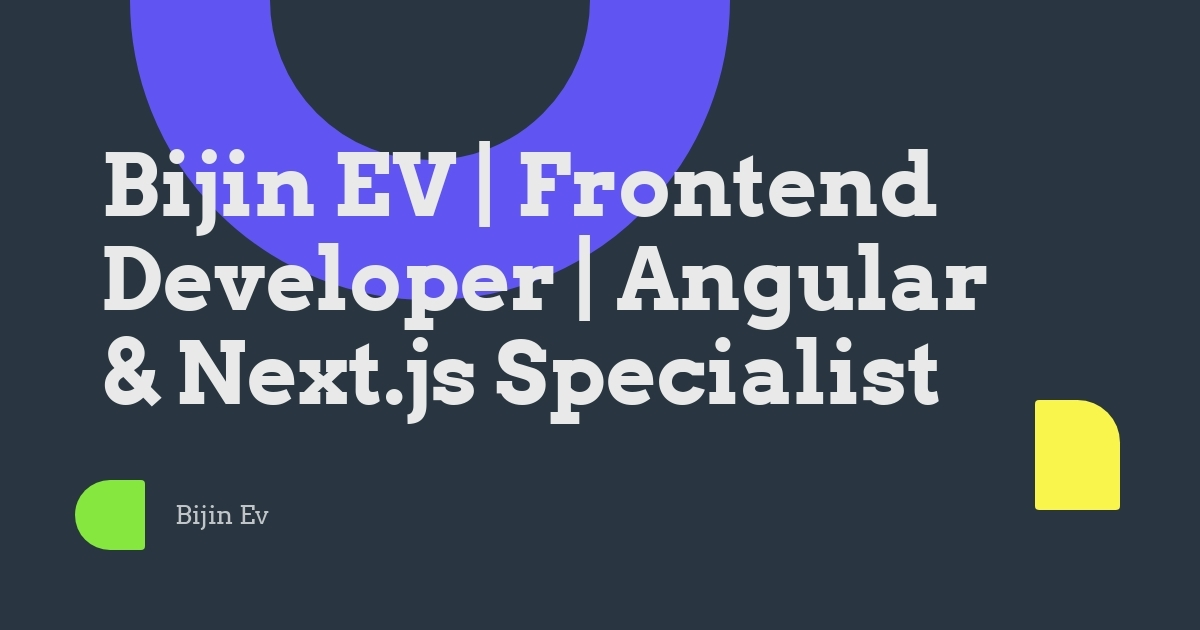
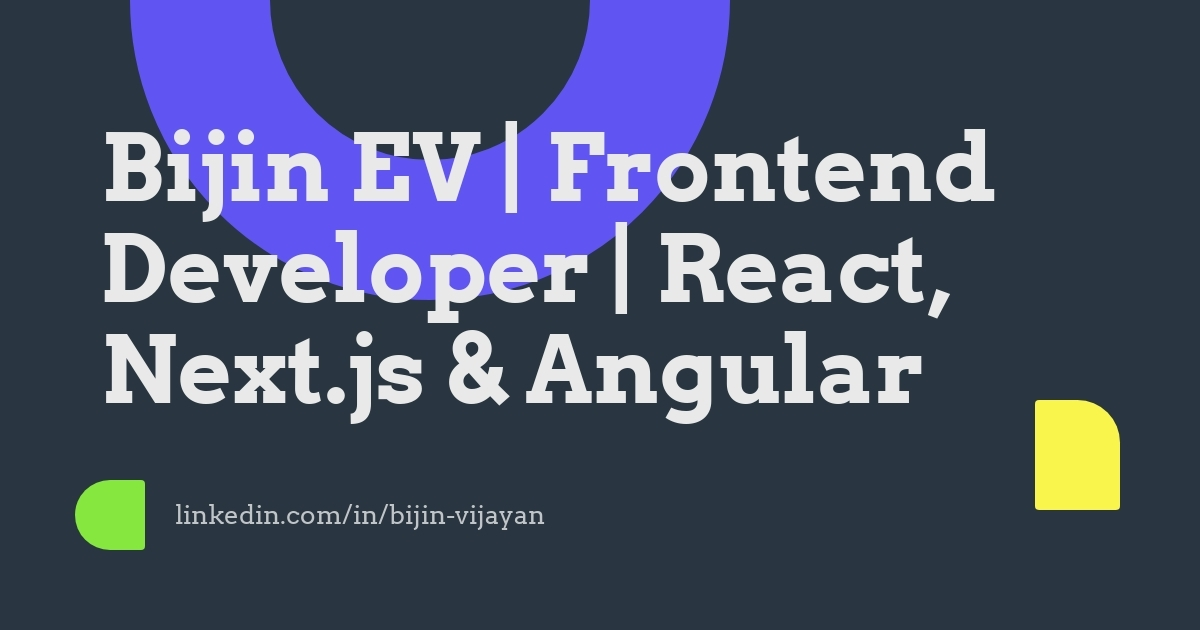
o grapgh image chnage

Changed region(s): [[0.0617, 0.181, 0.8325, 0.6937], [0.1542, 0.7841, 0.4625, 0.8444]]

diff --git a/index.html b/index.html
@@ -3,26 +3,26 @@
   <head>
     <meta charset="UTF-8" />
     <meta name="viewport" content="width=device-width, initial-scale=1.0" />
-    <title>Bijin EV | Frontend Developer | Angular & Next.js </title>
+    <title>Bijin EV | Frontend Developer |  React, Next.js, Angular </title>
 
     <meta
       name="description"
-      content="Bijin EV — Frontend Developer with 2+ years of experience building scalable, high-performance web applications using Angular, Next.js, and React. Experienced in responsive UI design, performance optimization, and SEO."
+      content="Bijin EV — Frontend Developer with 3 years of experience building scalable, high-performance web applications using Next.js, React and Angular. Experienced in responsive UI design, performance optimization, and SEO."
     />
     <meta name="author" content="Bijin EV" />
     <meta
       name="keywords"
-      content="Bijin EV, frontend developer, Angular, Next.js, React, TypeScript, Tailwind CSS, web developer, portfolio, UI design, SEO, performance optimization"
+      content="Bijin EV, frontend developer, Next.js, React, Angular, TypeScript, Tailwind CSS, web developer, portfolio, UI design, SEO, performance optimization"
     />
 
     <!-- Open Graph Meta Tags -->
     <meta
       property="og:title"
-      content="Bijin EV | Frontend Developer | Angular & Next.js Specialist"
+      content="Bijin EV | Frontend Developer | React ,Angular & Next.js Developer"
     />
     <meta
       property="og:description"
-      content="Frontend Developer with 2+ years of experience building responsive and high-performance web applications using Angular, Next.js, and React."
+      content="Frontend Developer with 3 years of experience building responsive and high-performance web applications using Angular, Next.js, and React."
     />
     <meta property="og:type" content="website" />
     <meta

diff --git a/src/components/Hero.tsx b/src/components/Hero.tsx
@@ -146,7 +146,7 @@ const Hero = () => {
 
                   <p className="text-base sm:text-lg text-foreground/70 max-w-md">
                       I'm <span className="font-semibold">Bijin EV</span>, a Frontend / Full-Stack Developer
-                      with 2.5+ years of experience delivering high-performance web applications using
+                      with 3 years of experience delivering high-performance web applications using
                       <span className="font-semibold"> Next.js, React, and Angular</span>.
                       I specialize in creating fast, accessible, and visually polished interfaces
                       that solve real business problems.Passionate about clean architecture, modern UI, and
